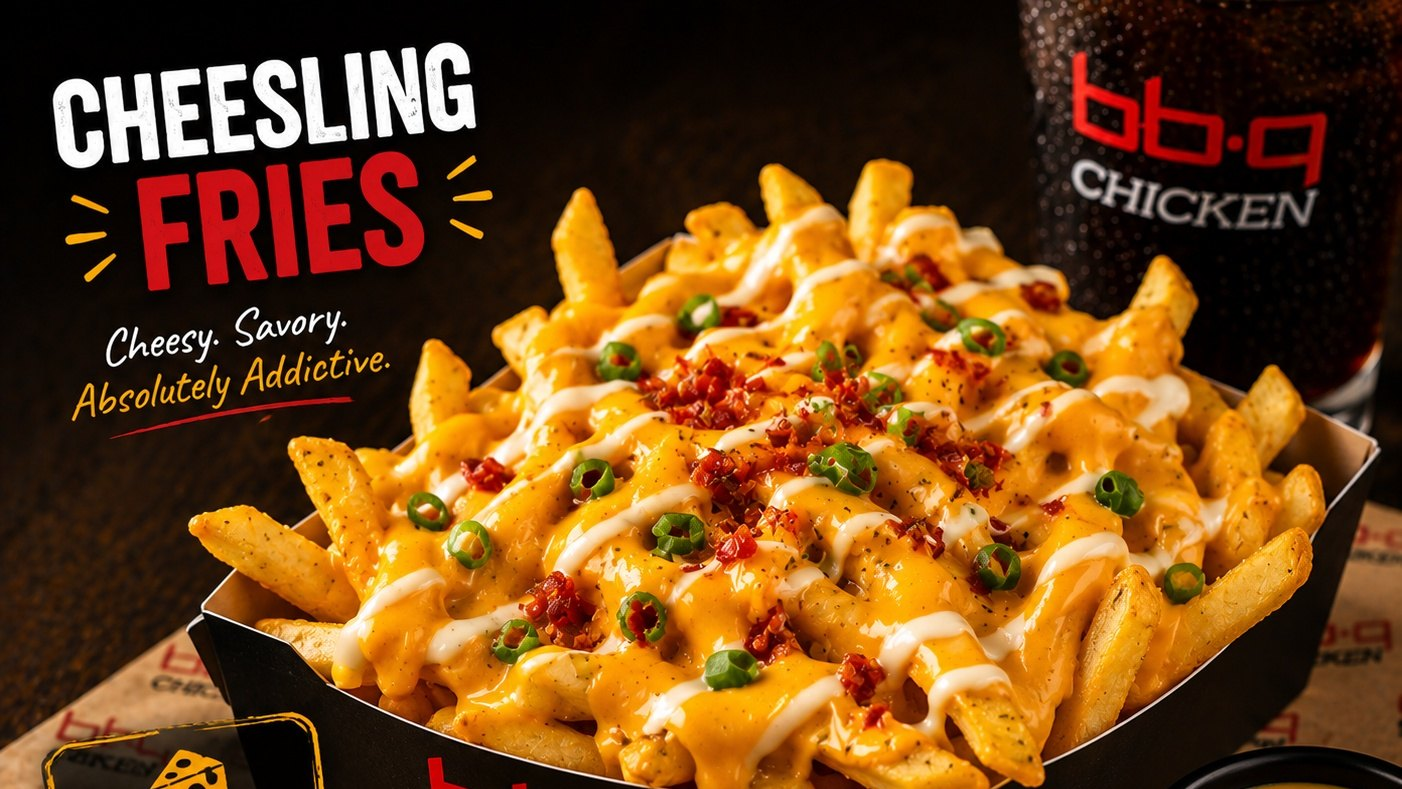
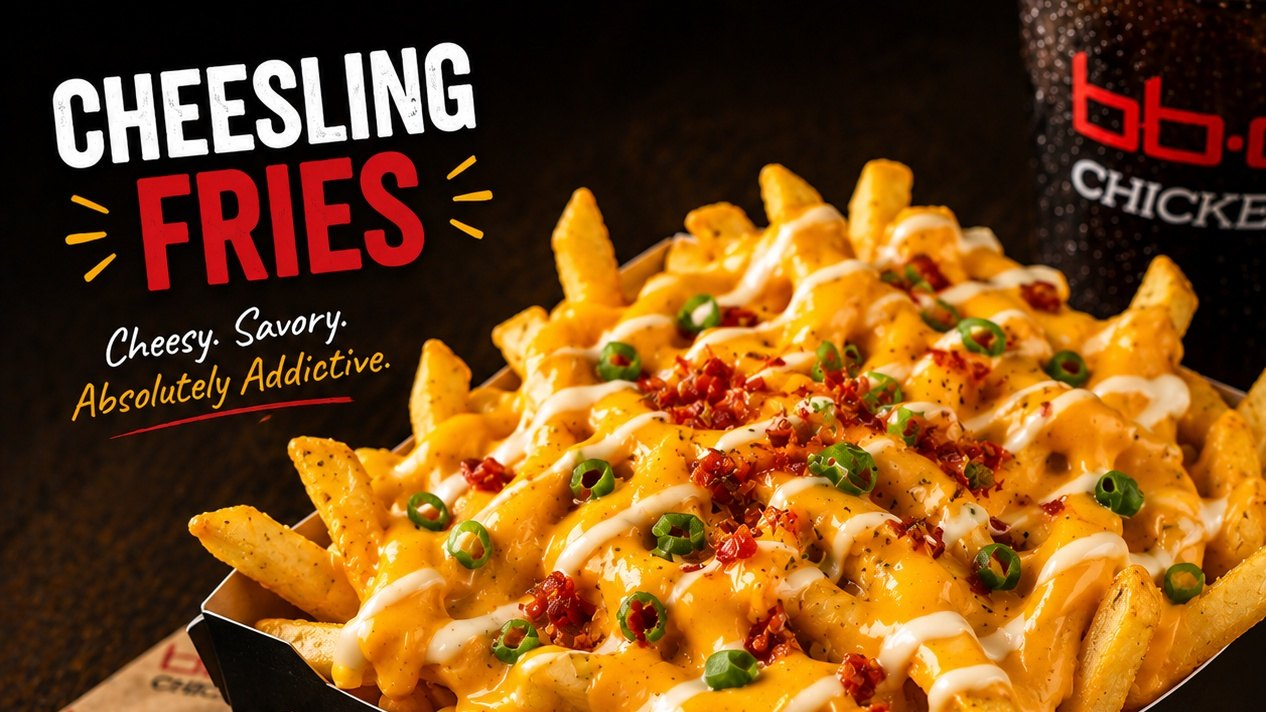
Complete the food asset catalogue: all 16 products have their own photography
Imports the final two masters, ddeok-bokki and rose-ddeok-bokki. The third
image in the batch was the Half & Half artwork already supplied — same source
re-encoded, mean pixel difference 2.05 — so it was not re-imported.

SUBSTITUTE_ASSET_KEYS is now empty. Nothing borrows another product's
photograph and nothing renders the placeholder tile, so assets:audit exits
clean for the first time: "All 16 catalogue products have supplied artwork."
The substitution mechanism stays in place for the next product added to the
menu ahead of its shoot.

Fixes a defect shipped in the previous batch. A 16:9 banner cut of a 1.25
source can only ever show about 70% of its height, so a badge sitting below
that line was being sliced mid-word — the French Fries banner read "GOLDEN.
CRISPY." with "IRRESISTIBLE." severed, and Cheesling Fries kept a stray
border sliver. The override map gained banner_rect, which pins the banner to
a region holding the headline whole and leaving the badge out entirely: a
missing badge reads as art direction, a halved one reads as a bug.

Both new masters needed the same treatment plus a left-anchored banner, since
a centred crop of a wide region clipped the first letter of the headline.

Ddeok-Bokki also becomes a home promotion.

Verification: tsc strict, ESLint and 143 Jest tests pass; assets:audit exits
0; bundles for iOS with 64 derivatives (16 products x 4 variants) and masters
still excluded from the bundle.
[…]

diff --git a/src/constants/foodAssets.ts b/src/constants/foodAssets.ts
@@ -64,32 +64,25 @@ export const foodAssets = suppliedFoodAssets;
 /**
  * Stand-in photography for products whose own shoot has not landed yet.
  *
- * Each pending product borrows the closest supplied asset in the same food
- * family, so the menu reads as finished rather than half-built. Two caveats
- * worth keeping in view:
+ * **Empty, and it should stay that way.** All 16 catalogue products now carry
+ * their own supplied bb.q photograph, so nothing borrows and nothing renders
+ * the placeholder tile.
  *
- *  - A borrowed photo shows a different product. Anything substituted is
- *    flagged `isSubstituted`, and the product detail screen captions it
- *    "Serving suggestion" so a customer inspecting the item closely is not
- *    told it is something it is not.
- *  - `npm run assets:audit` still counts these as outstanding. Substitution
- *    changes what a customer sees, not what the shoot list owes.
- *
- * Mapping is by visual family, not by menu section: glaze colour and finish are
- * what a customer actually reads in a thumbnail.
+ * The mechanism is kept for the next product added to the menu ahead of its
+ * shoot. Map the new key to the closest supplied asset by visual family —
+ * glaze colour and finish, not menu section, since that is what a customer
+ * reads in a thumbnail. Anything mapped here is flagged by `isSubstituted`
+ * and captioned "Serving suggestion" on the product detail screen, and still
+ * counts as outstanding in `npm run assets:audit`: substitution changes what
+ * a customer sees, not what the shoot list owes.
  */
-export const SUBSTITUTE_ASSET_KEYS: Partial<Record<FoodAssetKey, FoodAssetKey>> = {
-  // Glossy red chilli glaze with fresh chilli and sesame — the closest thing
-  // in the catalogue to a saucy rice-cake dish.
-  ddeokBokki: 'secretSauce',
-  roseDdeokBokki: 'secretSauce',
-};
+export const SUBSTITUTE_ASSET_KEYS: Partial<Record<FoodAssetKey, FoodAssetKey>> = {};
 
 /**
- * Products still awaiting their own supplied bb.q artwork.
+ * Products still awaiting their own supplied bb.q artwork. Currently empty.
  *
- * `npm run assets:audit` fails the build while this list is non-empty, so the
- * outstanding shoot list stays visible even though the UI now substitutes.
+ * `npm run assets:audit` fails the build while this list is non-empty, so a
+ * product added to the menu without a photograph cannot ship unnoticed.
  */
 export const PENDING_ASSET_KEYS: readonly FoodAssetKey[] = FOOD_ASSET_KEYS.filter(
   (key) => foodAssets[key] === undefined,

diff --git a/src/services/data/rewardsData.ts b/src/services/data/rewardsData.ts
@@ -298,6 +298,19 @@ export const promotions: Promotion[] = [
     usePromotionalComposition: true,
   },
   {
+    id: 'promo-ddeok-bokki',
+    headline: 'Ddeok-Bokki, two ways',
+    description:
+      'The fiery original, or the rosé version softened with cream. Chewy rice cakes either way.',
+    assetKey: 'ddeokBokki',
+    ctaLabel: 'Pick your sauce',
+    ctaHref: '/product/ddeok-bokki',
+    validFrom: new Date(Date.now() - 4 * 86_400_000).toISOString(),
+    validUntil: new Date(Date.now() + 45 * 86_400_000).toISOString(),
+    terms: ['Available at participating stores.'],
+    usePromotionalComposition: true,
+  },
+  {
     id: 'promo-free-delivery',
     headline: 'Free delivery over R350',
     description: 'Fill the box, skip the fee. Automatically applied at checkout.',

diff --git a/src/constants/foodAssetRegistry.ts b/src/constants/foodAssetRegistry.ts
@@ -95,4 +95,16 @@ export const suppliedFoodAssets: Partial<Record<FoodAssetKey, FoodAsset>> = {
     detail: require('@assets/food/detail/cheesling-fries.jpg'),
     banner: require('@assets/food/banner/cheesling-fries.jpg'),
   },
+  ddeokBokki: {
+    thumb: require('@assets/food/thumb/ddeok-bokki.jpg'),
+    card: require('@assets/food/card/ddeok-bokki.jpg'),
+    detail: require('@assets/food/detail/ddeok-bokki.jpg'),
+    banner: require('@assets/food/banner/ddeok-bokki.jpg'),
+  },
+  roseDdeokBokki: {
+    thumb: require('@assets/food/thumb/rose-ddeok-bokki.jpg'),
+    card: require('@assets/food/card/rose-ddeok-bokki.jpg'),
+    detail: require('@assets/food/detail/rose-ddeok-bokki.jpg'),
+    banner: require('@assets/food/banner/rose-ddeok-bokki.jpg'),
+  },
 };

diff --git a/README.md b/README.md
@@ -86,9 +86,13 @@ release build.
 
 ### Current asset status
 
-**14 of 16** catalogue products have supplied artwork. Only Ddeok-Bokki and
-Rose Ddeok-Bokki are outstanding; every chicken, meal and fries product on the
-menu now carries its own photograph.
+**All 16 of 16** catalogue products carry their own supplied bb.q photograph.
+Nothing borrows, nothing renders a placeholder, and `npm run assets:audit`
+exits clean:
+
+```
+All 16 catalogue products have supplied artwork. Cleared for production.
+```
 
 ### Promo compositions and per-master crop overrides
 
@@ -103,9 +107,10 @@ cards, where a naive crop slices the headline mid-word.
 | `promo_safe` | A fractional `(left, top, right, bottom)` region containing food and no campaign text. `thumb`/`card`/`detail` crop inside it; `banner` still uses the full composition. |
 | `gravity` | Vertical bias — a single number, or a dict keyed by variant. Every promo master pins its banner to `0.0` so the top-left headline survives the 16:9 cut. |
 | `focus_x` | Horizontal bias, same shape. A wide promo composition cropped to a 4:5 card loses most of its width, so this decides which part of the plate survives — Chicken & Rice Meal biases right to keep the rice and slaw in frame. |
+| `banner_rect` | A region used for the **banner** instead of the full frame. A 16:9 cut of a 1.25 source can only ever show ~70% of its height, so a badge sitting below that line gets sliced mid-word. This pins the banner to a region holding the headline whole and leaving the badge out entirely — a missing badge reads as art direction, a halved one reads as a bug. |
 
-Eight of the fourteen supplied masters arrived as campaign artwork and carry an
-entry here. Plain food shots need none.
+Ten of the sixteen masters arrived as campaign artwork and carry an entry here.
+Plain food shots need none.
 
 When adding one, derive and then **look at the card**: the rect has to clear
 headline flourishes and land on printed packaging marks rather than through
@@ -118,9 +123,11 @@ same visual family — mapped in `SUBSTITUTE_ASSET_KEYS`, by glaze colour and
 finish rather than by menu section, since that is what a customer actually reads
 in a thumbnail:
 
-| Borrows | Products |
-|---|---|
-| Secret Sauce | Ddeok-Bokki, Rose Ddeok-Bokki — glossy red chilli glaze with fresh chilli and sesame |
+`SUBSTITUTE_ASSET_KEYS` is **empty** — nothing borrows.
+
+The mechanism is kept for the next product added to the menu ahead of its shoot.
+Map the new key to the closest supplied asset by visual family, and it inherits
+both guardrails automatically.
 
 Two guardrails come with this:
 
@@ -136,10 +143,9 @@ Two guardrails come with this:
 soon" — remains the fallback for any product with neither its own artwork nor a
 mapped substitute. Both disappear on their own the moment the master lands.
 
-**Worth flagging:** the brief (§7) asks for clear product recognition and forbids
-placeholder food imagery. Substitution trades against that deliberately, to keep
-the menu looking finished ahead of the full shoot. Two photographs now remove
-the trade-off entirely, and both are the same dish in two sauces — one shoot.
+Earlier batches traded against brief §7 (clear product recognition) by letting
+products borrow a related photograph while their own shoot was outstanding. That
+trade-off is now closed — every product shows itself.
 
 ---
 
@@ -264,8 +270,6 @@ captured by our own form — that belongs inside the gateway's PCI-compliant SDK
 
 Honest list of what is stubbed, and where to pick it up:
 
-- **2 of 16 food assets** are outstanding — Ddeok-Bokki and Rose Ddeok-Bokki,
-  which currently borrow the Secret Sauce photograph (see Substitution above).
 - **Card capture** shows an explanatory alert instead of a form — the gateway
   SDK belongs at that call site in `account/payment-methods.tsx`.
 - **Address geocoding** anchors new addresses to the city centre. Wire a
